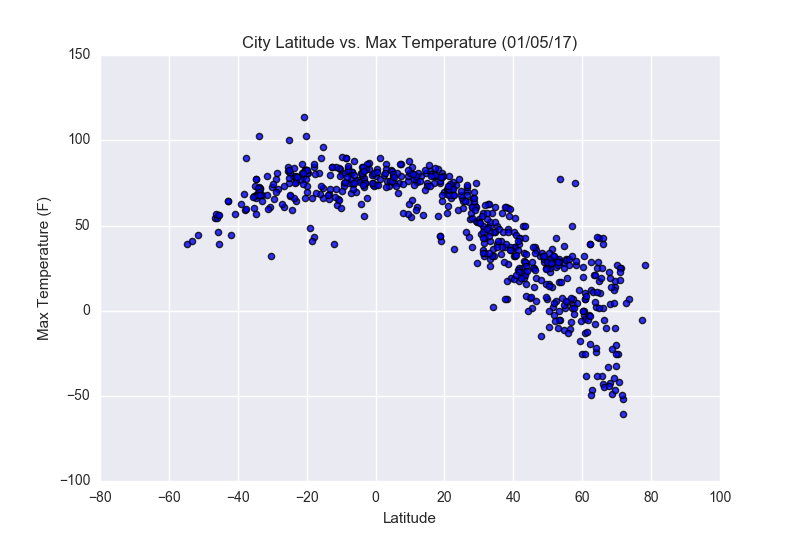
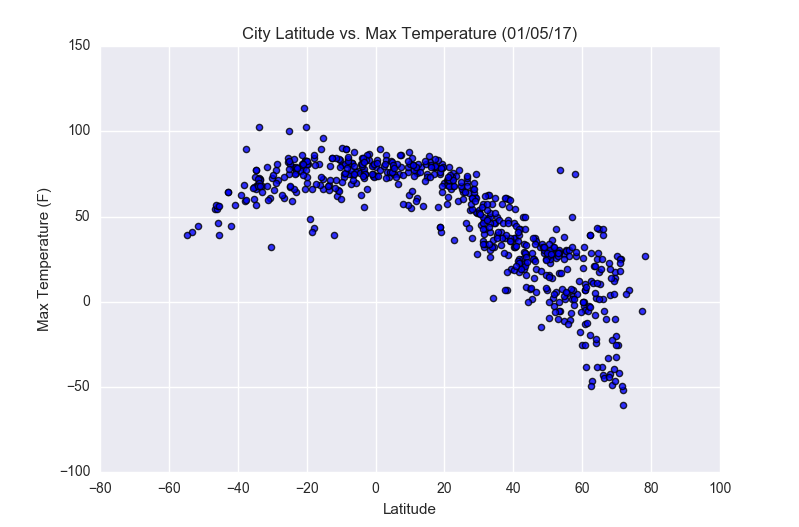
updates

diff --git a/maxtemp.html b/maxtemp.html
@@ -52,7 +52,7 @@
   <div class = "container">
     <div class = "col-xs-7 col-sm-7 col-md-7">
     <h1>Max Temperature</h1>
-    <p><img style="padding: 15px; float: left;" src="https://github.com/JenT83/HW11Web/blob/master/Fig1.png?raw=true" alt="Max Temperature"/>
+    <p><img style="height= 200px; width= 200px; padding: 15px; float: left;" src="https://github.com/JenT83/HW11Web/blob/master/Fig1.png?raw=true" alt="Max Temperature"/>
     <p style="margin-top: 20px;"></p>
     
     <br>

diff --git a/Comparison.html b/Comparison.html
@@ -50,7 +50,7 @@
 <body>
 
   <div class = "container">
-    <div class = "col-xs-7 col-sm-7 col-md-7">
+    <div class = "col-xs-12 col-sm-12 col-md-6">
     <h1>Comparison: Latitude vs X</h1>
     <br>
     <p>Click on any plot to get an in-depth analysis.</p>
